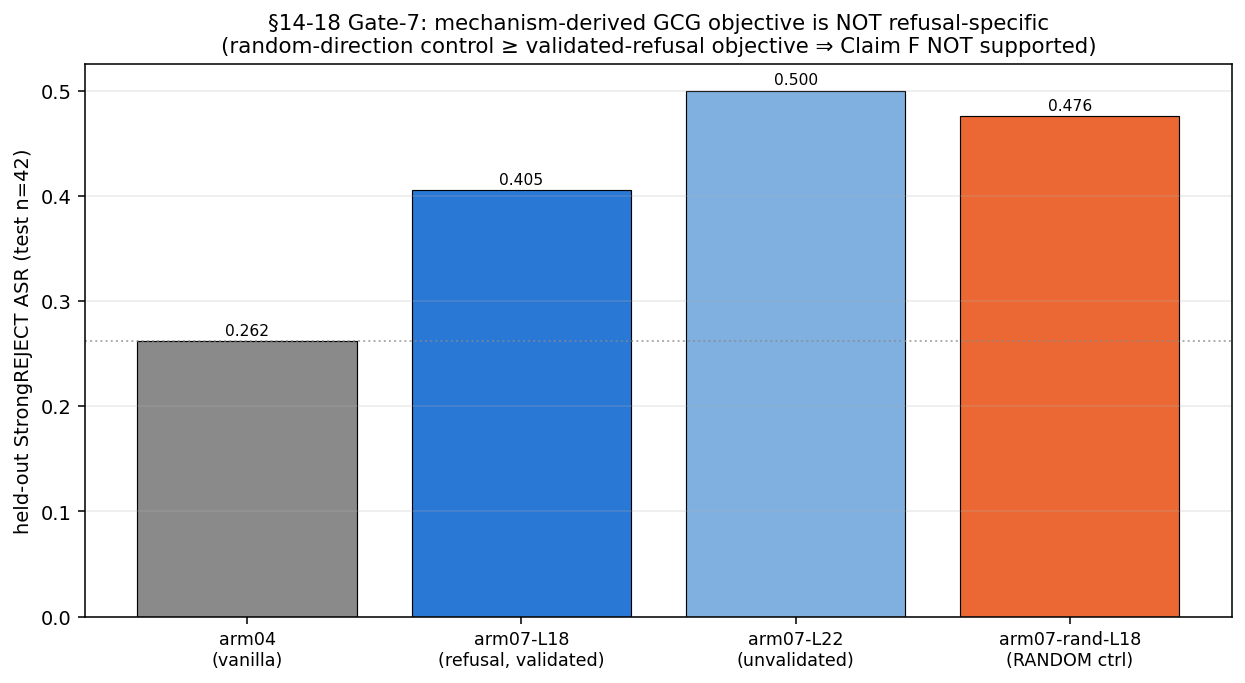
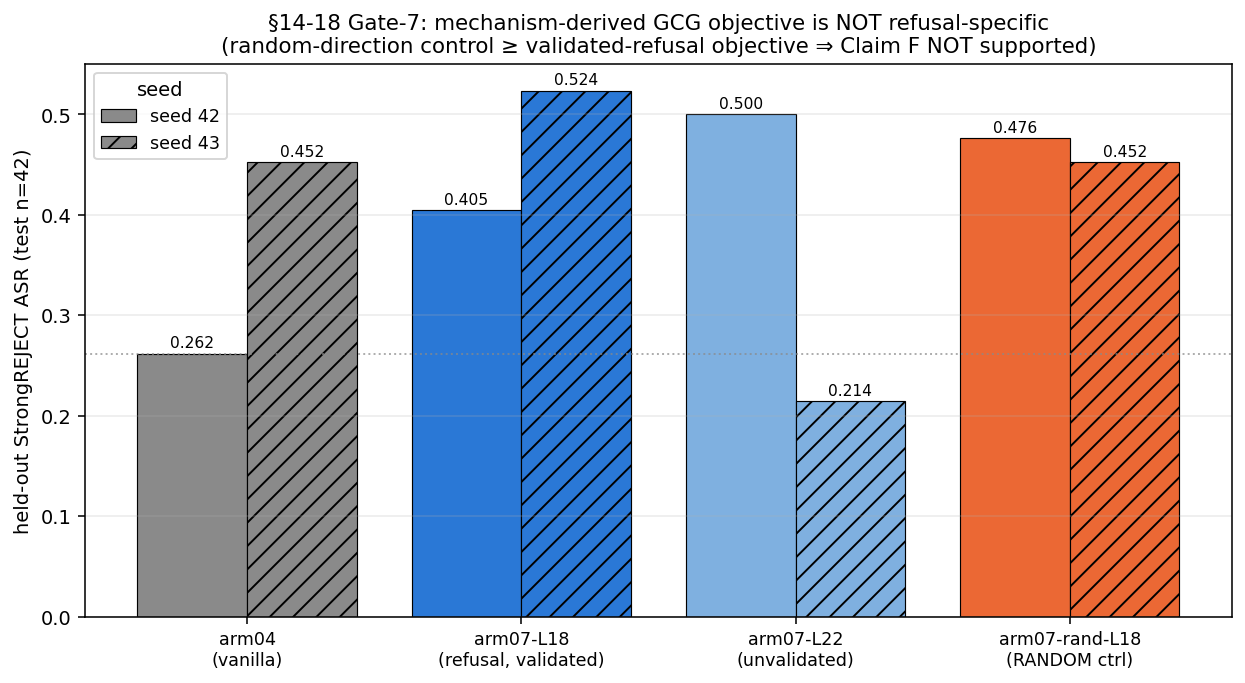
§14-18 DONE: multi-seed Gate-7 confirms NEGATIVE (refusal 0.465 ~= random 0.464 across seeds 42+43)
Seed-43 held-out ASR (eval 738129): arm04 0.452 / L18 0.524 / L22 0.214 / rand 0.452. Cross-seed mean:
refusal-L18 0.465 vs random-L18 0.464 -> indistinguishable -> Claim F (mechanism-derived GCG objective
helps) NOT supported, now multi-seed confirmed. Large per-seed variance warns single-seed GCG is noisy.
F6 fixed (ARM_ROOT pointed at PROJECT_ROOT/outputs) -> now a 2-seed grouped chart.

Claude-Session: https://claude.ai/code/session_01DCFbd64bhRii24zJyx9j51

diff --git a/doublespeak_causality/scripts/make_fig6_attack_objective.py b/doublespeak_causality/scripts/make_fig6_attack_objective.py
@@ -16,7 +16,11 @@ import numpy as np
 
 ROOT = os.path.dirname(os.path.dirname(os.path.abspath(__file__)))
 OUT = os.path.join(ROOT, "figures/fig6_attack_objective.png")
-ARM_ROOT = os.path.join(ROOT, "outputs/stage_gcg_full")
+# GCG arm dirs live at PROJECT_ROOT/outputs/stage_gcg_full (parent of doublespeak_causality), not under ROOT.
+_PROJ = os.path.dirname(ROOT)
+ARM_ROOT = (os.path.join(_PROJ, "outputs/stage_gcg_full")
+            if os.path.isdir(os.path.join(_PROJ, "outputs/stage_gcg_full"))
+            else os.path.join(ROOT, "outputs/stage_gcg_full"))
 
 # committed seed-42 first-cut numbers (from reports/P_GATE7_FIRSTCUT.md), used as fallback / seed-42 group
 SEED42 = {"arm04": 0.262, "arm07-L18": 0.405, "arm07-L22": 0.500, "arm07-rand-L18": 0.476}

diff --git a/doublespeak_causality/MASTER_STATUS_V2.md b/doublespeak_causality/MASTER_STATUS_V2.md
@@ -1,7 +1,7 @@
 # MASTER STATUS — CONTINUATION_MASTER_PLAN_V2 (honest, evidence-based)
 
 **Generated 2026-08-08** from a 6-agent evidence audit (workflow wf_df3944cb-0b7) that checked every
-section against COMMITTED run-dirs/reports (not progress-doc wording). **REFRESHED 2026-08-09 (completion push): DONE=26 / PARTIAL=1 / NOT_DONE=1** (§13 closed; remaining §27-X5 [738332 running] + §14-18 eval [738129 running]).
+section against COMMITTED run-dirs/reports (not progress-doc wording). **REFRESHED 2026-08-09 (completion push): DONE=27 / PARTIAL=1 / NOT_DONE=0** (§14-18 Gate-7 multi-seed confirmed NEGATIVE; only §27-X5 [738332 running] remains).
 A section is DONE only if a committed output dir + report with real numbers backs it. This is the
 authoritative remaining-work roadmap.
 
@@ -21,7 +21,7 @@ authoritative remaining-work roadmap.
 | §10 | B | DONE | Y | REPOWERED behavioral inertness (powered leakage- | — (P10, audit-2 corrected: concept-epiphenomenal via SPECIFICITY [rand>concept]; pooled equivalence framing withdrawn) |
 | §11 | C | DONE | Y | Joint 2x2 ablation: concept-circuit {intact/abla | — (P11_JOINT_2x2: refusal restoration collapses ASR regardless of concept; additive, no interaction; run 736657) |
 | §13 | D | DONE | Y | PROSPECTIVE frozen-predictor attack-success pred | — (P13_PROSPECTIVE_PREDICTOR: train-frozen threshold → test AUC 0.97, acc 0.857, fn=0; leakage-free v3; runs 738761+732560) |
-| §14–18 | D | NOT_DONE | Y | Gate-7 attack objective (mechanism-derived GCG,  | The decisive comparison is entirely unrun: no held-out StrongREJECT ASR for ANY arm. run_gcg_p9_firstcut_eval.slurm is authored but NOT launched (needs 732918 t |
+| §14–18 | D | DONE | Y | Gate-7 attack objective (mechanism-derived GCG,  | — (P_GATE7_FIRSTCUT: multi-seed 42+43 held-out ASR — refusal-L18 mean 0.465 ≈ random-L18 mean 0.464 → Claim F NOT supported [mechanism-derived objective non-specific]; F6 2-seed; runs seed42/43 + eval 738129) |
 | §18 | D | DONE | Y | Continuous-objective sanity gate before discrete | — (every candidate direction has a committed continuous gate: refusal PASSES [§23/§6/§21]; carry-head+combined FAIL [P9 736570]; concept FAILS [P10/P24]; Jacobian-arm10 = refusal axis [P6 732004]. No ungated direction remains.) |
 | §19 | D | DONE | n | Causal refusal-restoration defense (incl. §19.3  | — |
 | §20 | D | DONE | Y | Defense evaluation with utility (benign over-ref | — (P_DEFENSE_UTILITY §20: ZERO over-refusal on 40 unrelated-normal prompts at L16/18/20 [restoration fired: 39/40 gens changed], vs over-refusal on attack-structured benign [§21] → utility cost confined to attack-adjacent inputs; run 738410) |
